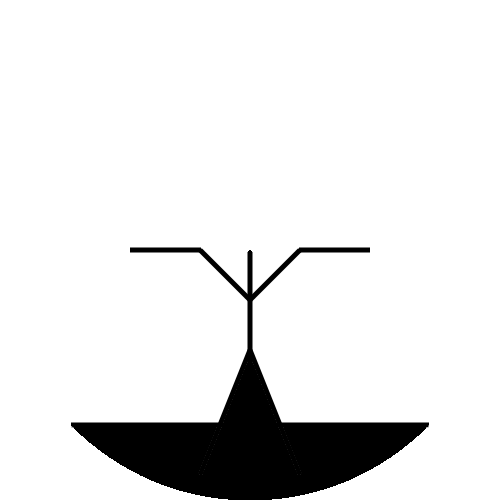
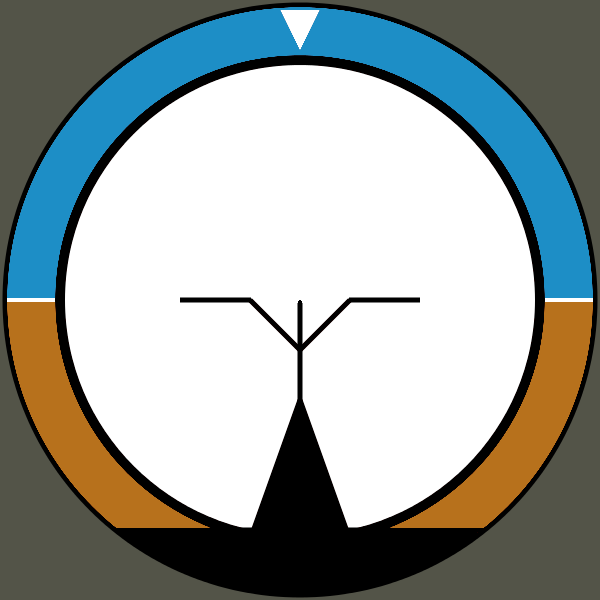
Implemented drawForeground and drawBackground. Image layers changed, the rotating part is now called background, foreground is the frame. Changed setRoll to invalidate prevous display.

diff --git a/artificialhorizon.cpp b/artificialhorizon.cpp
@@ -20,34 +20,47 @@
 
 #include "artificialhorizon.h"
 
+#define WIDGETSIZE  (200)
+
 ArtificialHorizon::ArtificialHorizon(QWidget *parent) :
-    QGraphicsView(parent)
+    QGraphicsView(parent),
+    roll(0)
 {
-    this->setScene(&(this->scene));
+    double scale;
+
+    // Set Geometry, init configuration
+    this->setGeometry(0, 0, WIDGETSIZE, WIDGETSIZE);
+    this->setScene(new QGraphicsScene(this));
+    this->setViewportUpdateMode(QGraphicsView::FullViewportUpdate);
     this->setHorizontalScrollBarPolicy(Qt::ScrollBarAlwaysOff);
     this->setVerticalScrollBarPolicy(Qt::ScrollBarAlwaysOff);
 
-    // Background
-    this->back.setPixmap(QPixmap(":/images/background.png")\
-                .scaled(QSize(200,200)));
-    this->scene.addItem(&(this->back));
+    // Open images, get scale factor
+    QPixmap foreground = QPixmap(":/images/foreground.png");
+    scale = foreground.size().width() / WIDGETSIZE;
+    QPixmap background = QPixmap(":/images/background.png");
 
-    // Inside
-    this->inside.setPixmap(QPixmap(":/images/inside.png")\
-                           .scaled(QSize(500/3,500/3)));
-    this->inside.setPos(100-500/6,100-500/6);
-    this->inside.setTransformOriginPoint(500/6,500/6);
-    this->inside.setRotation(0);
-    this->scene.addItem(&(this->inside));
-
-    // Foreground
-    this->foreground.setPixmap(QPixmap(":/images/foreground.png")\
-                               .scaled(QSize(500/3,500/3)));
-    this->foreground.setPos(100-500/6,100-500/6);
-    this->scene.addItem(&(this->foreground));
+    // Setup Graphics view items
+    this->back.setPixmap(background.scaled(background.size()/scale));
+    this->back.setTransformOriginPoint(background.width()/2, background.height()/2);
+    this->foreground.setPixmap(foreground.scaled(QSize(WIDGETSIZE,WIDGETSIZE)));
 }
 
 void ArtificialHorizon::setRoll(double roll)
 {
-    this->inside.setRotation(roll);
+    this->roll = roll;
+    this->scene()->invalidate();
+}
+
+void ArtificialHorizon::drawBackground(QPainter *painter, const QRectF &rect)
+{
+    painter->rotate(this->roll);
+    painter->drawPixmap(QPoint(-100,-100), this->back.pixmap(),
+                        QRect(QPoint(133,133), QPoint(333,333)));
+}
+
+void ArtificialHorizon::drawForeground(QPainter *painter, const QRectF &rect)
+{
+    painter->drawPixmap(-100,-100, this->foreground.pixmap());
+    QGraphicsView::drawForeground(painter, rect);
 }

diff --git a/artificialhorizon.h b/artificialhorizon.h
@@ -37,11 +37,15 @@ signals:
 public slots:
     void    setRoll(double roll);
 
+protected:
+    void drawBackground(QPainter *painter, const QRectF &rect);
+    void drawForeground(QPainter *painter, const QRectF &rect);
+
 private:
-    QGraphicsScene scene;
     QGraphicsPixmapItem back;
-    QGraphicsPixmapItem inside;
     QGraphicsPixmapItem foreground;
+
+    double roll;
 };
 
 #endif // ARTIFICIALHORIZON_H
